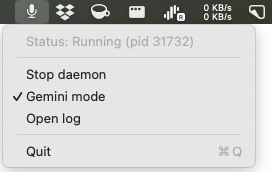
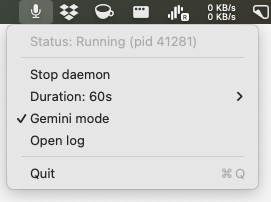
feat(menubar): add duration presets

Changed region(s): [[0.0, 0.0, 1.0, 0.9884], [0.0886, 0.1744, 0.738, 0.2907], [0.0886, 0.6395, 0.3247, 0.7267]]

diff --git a/src/minidic/menubar.py b/src/minidic/menubar.py
@@ -30,7 +30,12 @@ from AppKit import (
 )
 from Foundation import NSMakeRect, NSObject, NSTimer
 
-from minidic.runtime.config import get_gemini_enabled, set_gemini_enabled
+from minidic.runtime.config import (
+    get_gemini_enabled,
+    get_recording_duration,
+    set_gemini_enabled,
+    set_recording_duration,
+)
 from minidic.runtime.process import (
     DAEMON_LOG_FILE,
     DAEMON_PID_FILE,
@@ -76,6 +81,15 @@ def _set_menu_bar_icon(button: object, state: str) -> None:
     button.setTitle_(_emoji_for_state(state))
 
 
+DURATION_PRESETS = (15.0, 30.0, 60.0, 90.0, 120.0)
+
+
+def _format_duration(duration: float) -> str:
+    if duration.is_integer():
+        return f"{int(duration)}s"
+    return f"{duration:g}s"
+
+
 class MiniDicMenuBarApp(NSObject):
     def initWithArgs_(self, args: argparse.Namespace):
         self = self.init()
@@ -83,6 +97,7 @@ class MiniDicMenuBarApp(NSObject):
             return None
 
         self.args = args
+        self.args.duration = get_recording_duration(default=args.duration)
 
         self.status_item = None
         self.menu = None
@@ -90,6 +105,8 @@ class MiniDicMenuBarApp(NSObject):
 
         self.status_label_item = None
         self.toggle_daemon_item = None
+        self.duration_menu_item = None
+        self.duration_items: dict[float, object] = {}
         self.toggle_gemini_item = None
 
         self.last_runtime_state = "stopped"
@@ -118,6 +135,22 @@ class MiniDicMenuBarApp(NSObject):
         )
         self.toggle_daemon_item.setTarget_(self)
         self.menu.addItem_(self.toggle_daemon_item)
+
+        duration_menu = NSMenu.alloc().init()
+        self.duration_menu_item = NSMenuItem.alloc().initWithTitle_action_keyEquivalent_(
+            "Duration", None, ""
+        )
+        self.menu.addItem_(self.duration_menu_item)
+        self.menu.setSubmenu_forItem_(duration_menu, self.duration_menu_item)
+
+        for duration in DURATION_PRESETS:
+            item = NSMenuItem.alloc().initWithTitle_action_keyEquivalent_(
+                _format_duration(duration), "selectDuration:", ""
+            )
+            item.setTarget_(self)
+            item.setTag_(int(duration))
+            duration_menu.addItem_(item)
+            self.duration_items[duration] = item
 
         self.toggle_gemini_item = NSMenuItem.alloc().initWithTitle_action_keyEquivalent_(
             "Gemini mode", "toggleGemini:", ""
@@ -177,6 +210,13 @@ class MiniDicMenuBarApp(NSObject):
             self.status_label_item.setTitle_(f"Status: {detail} (pid {pid})")
             self.toggle_daemon_item.setTitle_("Stop daemon")
             runtime_state = read_runtime_state()
+
+        current_duration = get_recording_duration(default=self.args.duration)
+        self.args.duration = current_duration
+        if self.duration_menu_item is not None:
+            self.duration_menu_item.setTitle_(f"Duration: {_format_duration(current_duration)}")
+        for duration, item in self.duration_items.items():
+            item.setState_(1 if duration == current_duration else 0)
 
         gemini_enabled = get_gemini_enabled(default=self.args.gemini)
         if self.toggle_gemini_item is not None:
@@ -329,6 +369,12 @@ class MiniDicMenuBarApp(NSObject):
                 break
             time.sleep(0.1)
 
+        self.refreshStatus_(None)
+
+    def selectDuration_(self, sender: object) -> None:
+        duration = float(sender.tag())
+        set_recording_duration(duration)
+        self.args.duration = duration
         self.refreshStatus_(None)
 
     def toggleGemini_(self, sender: object) -> None:

diff --git a/src/minidic/runtime/config.py b/src/minidic/runtime/config.py
@@ -4,13 +4,16 @@ from __future__ import annotations
 
 import json
 from pathlib import Path
+from typing import Any
 
 _STATE_DIR = Path.home() / ".local" / "state" / "minidic"
 RUNTIME_CONFIG_FILE = _STATE_DIR / "config.json"
 
+DEFAULT_DURATION_SECONDS = 60.0
 
-DEFAULT_RUNTIME_CONFIG: dict[str, bool] = {
+DEFAULT_RUNTIME_CONFIG: dict[str, Any] = {
     "gemini": False,
+    "duration": DEFAULT_DURATION_SECONDS,
 }
 
 
@@ -20,7 +23,17 @@ def _normalize_bool(value: object, *, default: bool) -> bool:
     return default
 
 
-def read_runtime_config() -> dict[str, bool]:
+def _normalize_duration(value: object, *, default: float) -> float:
+    if isinstance(value, bool):
+        return default
+    if isinstance(value, (int, float)):
+        duration = float(value)
+        if duration > 0:
+            return duration
+    return default
+
+
+def read_runtime_config() -> dict[str, Any]:
     config = dict(DEFAULT_RUNTIME_CONFIG)
 
     try:
@@ -32,13 +45,17 @@ def read_runtime_config() -> dict[str, bool]:
 
     if isinstance(data, dict):
         config["gemini"] = _normalize_bool(data.get("gemini"), default=config["gemini"])
+        config["duration"] = _normalize_duration(data.get("duration"), default=config["duration"])
 
     return config
 
 
-def write_runtime_config(config: dict[str, bool]) -> None:
+def write_runtime_config(config: dict[str, Any]) -> None:
     _STATE_DIR.mkdir(parents=True, exist_ok=True)
     payload = {
+        "duration": _normalize_duration(
+            config.get("duration"), default=DEFAULT_DURATION_SECONDS
+        ),
         "gemini": _normalize_bool(config.get("gemini"), default=False),
     }
     RUNTIME_CONFIG_FILE.write_text(json.dumps(payload, indent=2, sort_keys=True) + "\n")
@@ -52,4 +69,15 @@ def get_gemini_enabled(*, default: bool = False) -> bool:
 def set_gemini_enabled(enabled: bool) -> None:
     cfg = read_runtime_config()
     cfg["gemini"] = bool(enabled)
+    write_runtime_config(cfg)
+
+
+def get_recording_duration(*, default: float = DEFAULT_DURATION_SECONDS) -> float:
+    cfg = read_runtime_config()
+    return _normalize_duration(cfg.get("duration"), default=default)
+
+
+def set_recording_duration(duration: float) -> None:
+    cfg = read_runtime_config()
+    cfg["duration"] = _normalize_duration(duration, default=DEFAULT_DURATION_SECONDS)
     write_runtime_config(cfg)

diff --git a/src/minidic/daemon.py b/src/minidic/daemon.py
@@ -58,7 +58,7 @@ def run_daemon(args: argparse.Namespace) -> None:
     signal.signal(signal.SIGTERM, _on_sigterm)
 
     gemini_enabled = get_gemini_enabled(default=args.gemini)
-    write_runtime_config({"gemini": gemini_enabled})
+    write_runtime_config({"duration": args.duration, "gemini": gemini_enabled})
 
     transcriber = Transcriber(model_id=args.model, smooth_with_gemini=gemini_enabled)
     model_loaded = False

diff --git a/README.md b/README.md
@@ -58,8 +58,9 @@ minidic menubar
 ![Menu bar icon (running)](screenshots/menubar-daemon-started.png)
 
 1. Start the menu bar app.
-2. In the menu bar app, click **Start daemon** (or **Stop daemon** to stop it).
-3. Press `F5` to toggle start/stop dictation (captured globally; other apps will not receive `F5` while daemon is running).
+2. Optionally choose a max recording length from **Duration** in the menu.
+3. Click **Start daemon** (or **Stop daemon** to stop it).
+4. Press `F5` to toggle start/stop dictation (captured globally; other apps will not receive `F5` while daemon is running).
 
 ## Technique overview
 
@@ -88,7 +89,7 @@ The daemon mode is hotkey-driven and lazily loads/unloads the model to reduce id
 └── recordings/             # saved WAV recordings captured during dictation/transcription
 
 ~/.local/state/minidic/
-├── config.json            # persisted runtime config such as Gemini toggle state
+├── config.json            # persisted runtime config such as Gemini and duration settings
 ├── daemon.log             # daemon logs
 ├── daemon.pid             # daemon process ID
 ├── daemon.state           # current daemon state: idle, recording, transcribing
